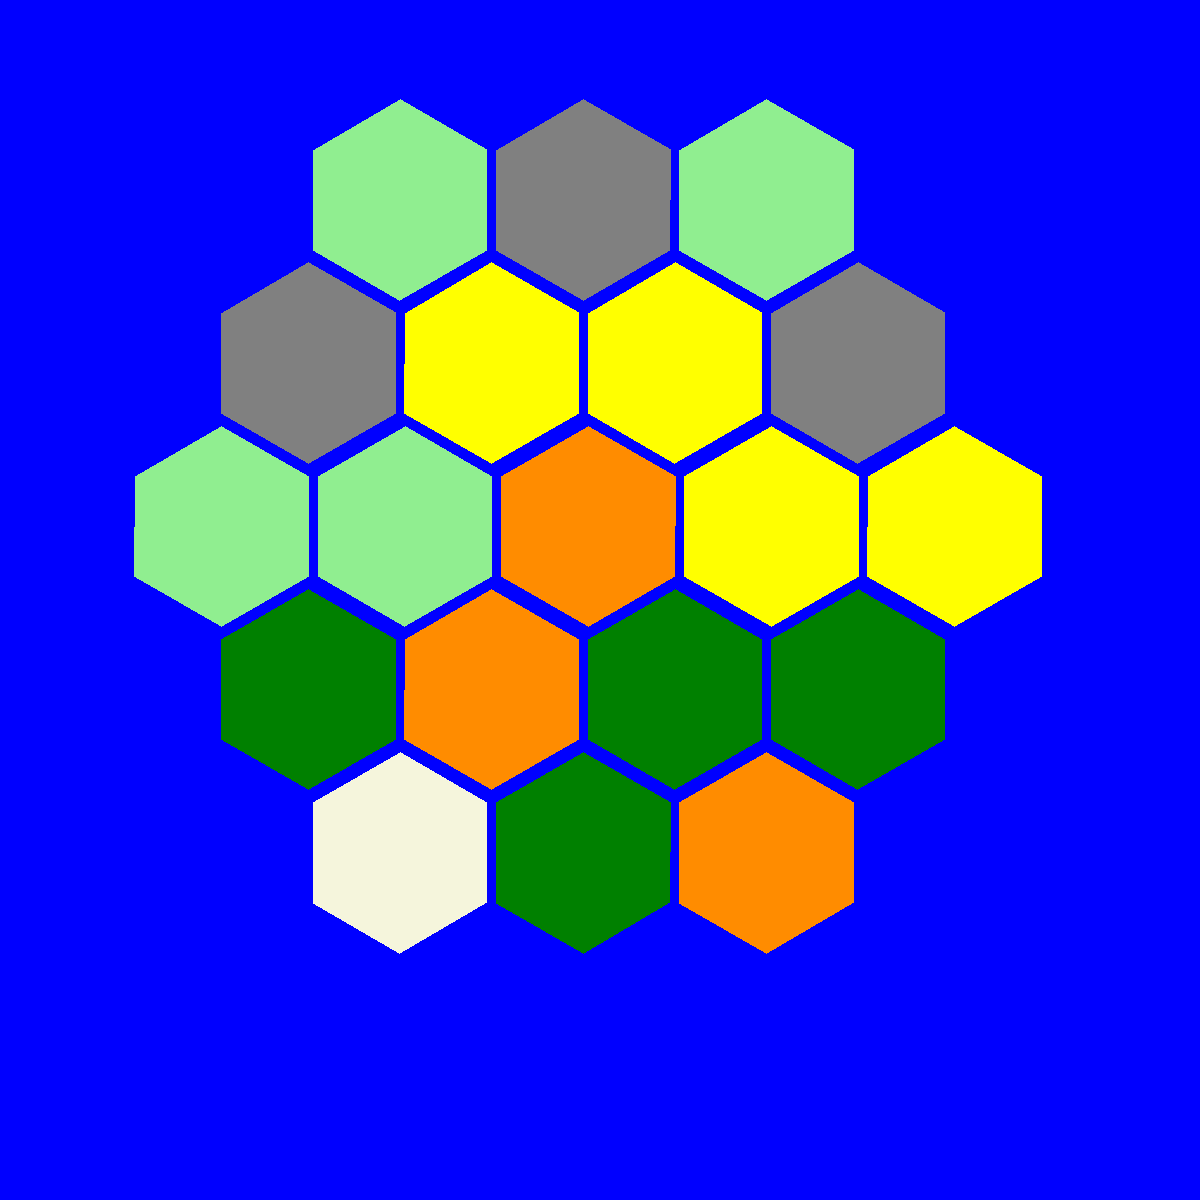
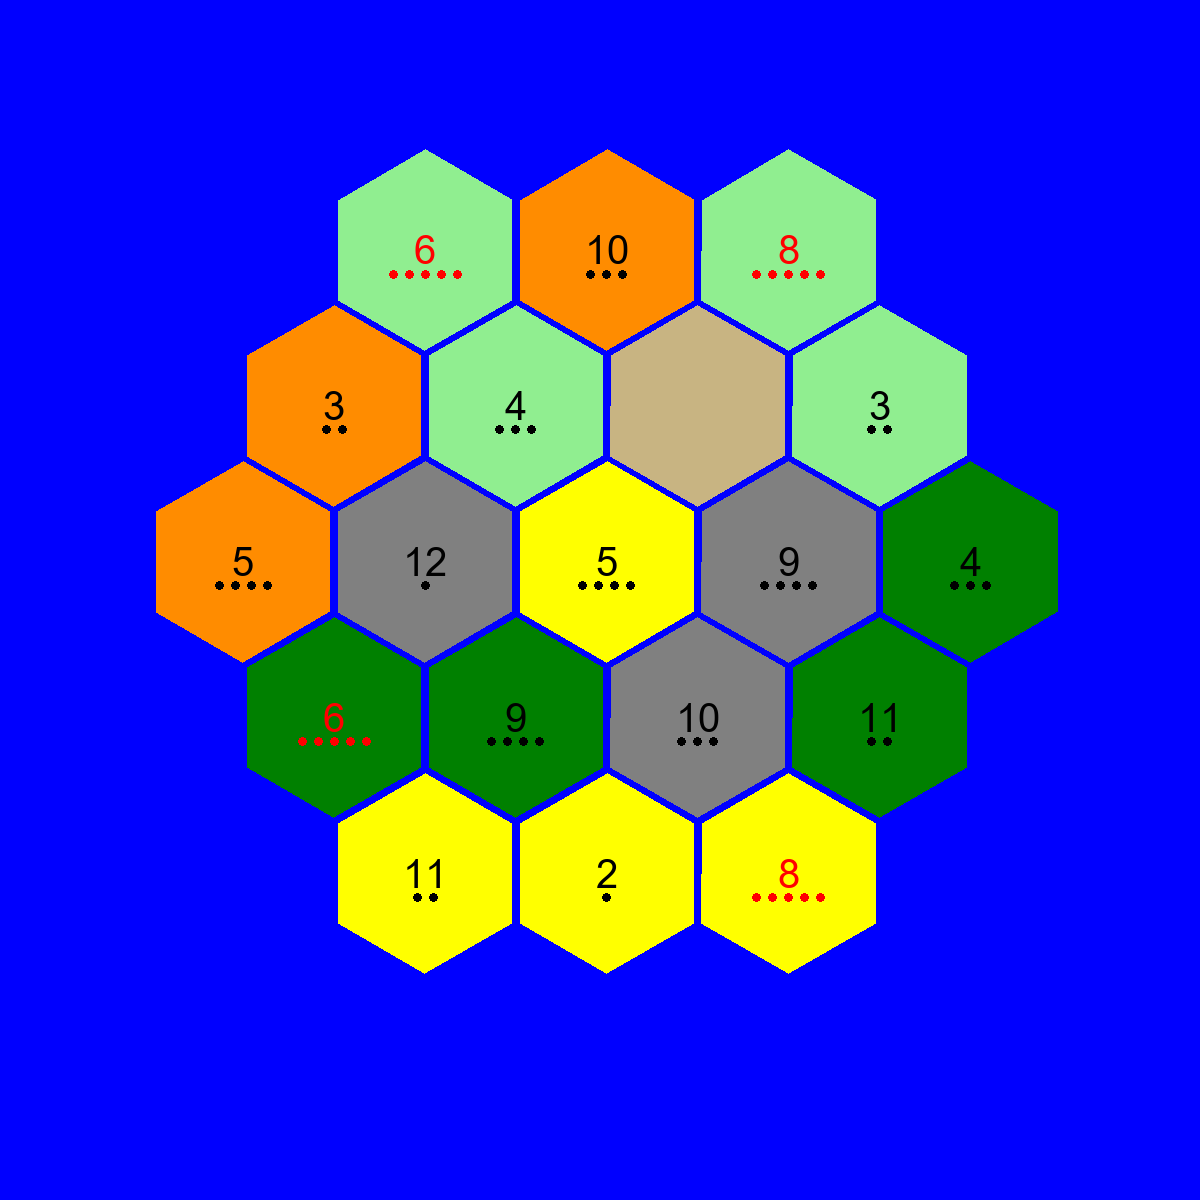
Improved board generation fairness

diff --git a/main.py b/main.py
@@ -4,7 +4,8 @@ from array import *
 from operator import itemgetter
 import matplotlib.pyplot as plt
 import math
-from PIL import Image, ImageDraw
+import random
+from PIL import Image, ImageDraw, ImageFont
 
 board_path = 'TestBoard.png'
 tree_path = 'TreeNew.png'
@@ -25,7 +26,76 @@ num11_path = '11.png'
 num12_path = '12.png'
 
 tiles = []
+rarity_odds = [0, 0, 1, 2, 3, 4, 5, 0, 5, 4, 3, 2, 1, 0, 0]
 
+#mapping of adjacent hexagons
+adjacencies =[
+    [1,3,4],
+    [0,2,4,5],
+    [1,5,6],
+    [0,4,7,8],
+    [0,1,3,5,8,9],
+    [1,2,4,6,9,10],
+    [2,5,10,11],
+    [3,8,12],
+    [3,4,7,9,12,13],
+    [4,5,8,10,13,14],
+    [5,6,9,11,14,15],
+    [6,10,15],
+    [7,8,13,16],
+    [8,9,12,14,16,17],
+    [9,10,13,15,17,18],
+    [10,11,14,18],
+    [12,13,17],
+    [13,14,16,18],
+    [14,15,17]
+]
+
+#----------------------------------------------------------------------------------------------------------------------------------------------------------
+# BOARD GENERATOR
+#----------------------------------------------------------------------------------------------------------------------------------------------------------
+def generate_board():
+    board = []
+    resources = [['tree', 4], ['brick', 3], ['sheep', 4], ['wheat', 4], ['ore', 3], ['desert', 1]]
+    rarities = [2, 3, 3, 4, 4, 5, 5, 6, 6, 8, 8, 9, 9, 10, 10, 11, 11, 12]
+
+    for i in range(19):
+        random_resource = random.choice(resources)
+
+        while random_resource[1] == 0:
+            random_resource = random.choice(resources)
+
+        if random_resource[0] == 'desert':
+            random_rarity = 0
+        else:            
+            random_rarity = random.choice(rarities)
+
+
+        board.append([random_resource[0], random_rarity])
+        
+        random_resource[1] -= 1
+        if random_resource[0] != 'desert':
+            rarities.remove(random_rarity)
+
+    return board
+
+#----------------------------------------------------------------------------------------------------------------------------------------------------------
+# FAIR BOARD GENERATOR
+#----------------------------------------------------------------------------------------------------------------------------------------------------------
+
+def check_fairness(board):
+    for i in range(19):
+        for j in adjacencies[i]:
+            if(board[i][1] == 6 and board[j][1] == 6 or board[i][1] == 8 and board[j][1] == 6 or board[i][1] == 6 and board[j][1] == 8 or board[i][1] == 8 and board[j][1] == 8):
+                return False
+    return True
+
+def generate_fair_board():
+    board = generate_board()
+    while(not check_fairness(board)):
+        board = generate_board()
+    return board
+    
 #----------------------------------------------------------------------------------------------------------------------------------------------------------
 # BOARD VIEWER
 #----------------------------------------------------------------------------------------------------------------------------------------------------------
@@ -37,7 +107,6 @@ def BoardViewer():
     rarities = []
     placement_spots = []
     rarity_points = [0] * 5
-    rarity_odds = [0, 0, 1, 2, 3, 4, 5, 0, 5, 4, 3, 2, 1, 0, 0]
     rarity_percentage = [0] * 5
 
     xDiff = 40
@@ -111,9 +180,9 @@ def BoardViewer():
     findTiles(num12_path, 12)
 
 
-    cv2.imshow('Board', board_img)
-    cv2.waitKey()
-    cv2.destroyAllWindows()
+    #cv2.imshow('Board', board_img)
+    #cv2.waitKey()
+    #cv2.destroyAllWindows()
 
     tiles.sort(key=itemgetter(1))
 
@@ -275,7 +344,7 @@ def BoardViewer():
 
     plt.axis('equal')
 
-    plt.show()
+    #plt.show()
 
     '''
     Track the resources and values for each placement spot
@@ -322,7 +391,13 @@ def BoardViewer():
 
     print("test")
 
-def hexagonMaker(side_length,center_x, center_y, i):
+
+
+#----------------------------------------------------------------------------------------------------------------------------------------------------------
+# GUI
+#----------------------------------------------------------------------------------------------------------------------------------------------------------
+
+def hexagonMaker(new_tiles,side_length,center_x, center_y, i):
     rotation_angle_deg = 30  # Angle in degrees
 
     # Calculate rotated hexagon vertices
@@ -341,55 +416,120 @@ def hexagonMaker(side_length,center_x, center_y, i):
     ]
     ]
 
+ 
     fill_color = ""
-    if(tiles[i][2]=='tree'):
+    if(new_tiles[i][0]=='tree'):
         fill_color = 'green'
-    elif(tiles[i][2]=='brick'):
+    elif(new_tiles[i][0]=='brick'):
         fill_color = 'darkorange'
-    elif(tiles[i][2]=='sheep'):
+    elif(new_tiles[i][0]=='sheep'):
         fill_color = 'lightgreen'
-    elif(tiles[i][2]=='wheat'):
+    elif(new_tiles[i][0]=='wheat'):
         fill_color = 'yellow'
-    elif(tiles[i][2]=='ore'):
+    elif(new_tiles[i][0]=='ore'):
         fill_color = 'gray'
     else:
-        fill_color = 'beige'
+        fill_color = (200, 180, 130)
 
-    return(hexagon_vertices, fill_color)
+    if(new_tiles[i][1] != 0):
+        return(hexagon_vertices, fill_color, str(new_tiles[i][1]))
+    else:
+        return(hexagon_vertices, fill_color, "")
     
-#----------------------------------------------------------------------------------------------------------------------------------------------------------
-# GUI
-#----------------------------------------------------------------------------------------------------------------------------------------------------------
-def BoardGUI(tiles):
-    print(tiles)
+    
+def dotDrawer(x, y, number, draw):
+    dot_size = 8
+    
+    text_color = 'red' if number in ('6', '8') else 'black'
+
+    if number != '' and rarity_odds[eval(number)] == 1:
+        draw.ellipse([(x - dot_size*2 + dot_size*1.5, y + 20), 
+                  (x + dot_size - dot_size*2 + dot_size*1.5, y + dot_size + 20)],
+                 fill = text_color)
+    elif number != '' and rarity_odds[eval(number)] == 2:
+        for i in range(0, 2):
+            draw.ellipse([(x - dot_size*2*i + dot_size*.5, y + 20), 
+                  (x + dot_size - dot_size*2*i + dot_size*.5, y + dot_size + 20)],
+                 fill = text_color)
+    elif number != '' and rarity_odds[eval(number)] == 3:
+        for i in range(0, 3):
+            draw.ellipse([(x - dot_size*2*i + dot_size*1.5, y + 20), 
+                  (x + dot_size - dot_size*2*i + dot_size*1.5, y + dot_size + 20)],
+                 fill = text_color)
+    elif number != '' and rarity_odds[eval(number)] == 4:
+        for i in range(0, 4):
+            draw.ellipse([(x - dot_size*2*i + dot_size*2.5, y + 20), 
+                  (x + dot_size - dot_size*2*i + dot_size*2.5, y + dot_size + 20)],
+                 fill = text_color)
+    elif number != '' and rarity_odds[eval(number)] == 5:
+        for i in range(0, 5):
+            draw.ellipse([(x - dot_size*2*i + dot_size*3.5, y + 20), 
+                  (x + dot_size - dot_size*2*i + dot_size*3.5, y + dot_size + 20)],
+                 fill = text_color)
+    
+
+def BoardGUI(new_tiles):
+    print(new_tiles)
     side_length = 100
     img = Image.new("RGB", (1200, 1200), "blue")
     draw = ImageDraw.Draw(img)
+    font = ImageFont.truetype("arial.ttf", 40)
     halfHexxy = side_length*math.sin(math.radians(60)) #half hex width
 
     for i in range (0,3):
-        verts,color = hexagonMaker(side_length,400+(10+2*halfHexxy)*i,200, i)
+        verts,color,number = hexagonMaker(new_tiles, side_length, 
+                                          425 + (2*halfHexxy + (halfHexxy/10)) * i, 
+                                          250, i)
         draw.polygon(verts, fill=color)
+        text_color = 'red' if number in ('6', '8') else 'black'
+        draw.text((425 + (2*halfHexxy + (halfHexxy/10)) * i, 250), 
+                  number, anchor = 'mm', font = font, fill = text_color)
+        dotDrawer(425 + (2*halfHexxy + (halfHexxy/10)) * i, 250, number, draw)
     for i in range (0,4):
-        verts,color = hexagonMaker(side_length,(400-halfHexxy-5)+((10+2*halfHexxy)*i),200+2*(halfHexxy-5), (i+3))
+        verts,color,number = hexagonMaker(new_tiles, side_length, 
+                                          (425-halfHexxy-(halfHexxy/20)) + ((2*halfHexxy + (halfHexxy/10))*i), 
+                                          250+2*(halfHexxy-(halfHexxy/10)), (i+3))
         draw.polygon(verts, fill=color)
+        text_color = 'red' if number in ('6', '8') else 'black'
+        draw.text(((425-halfHexxy-(halfHexxy/20)) + ((2*halfHexxy + (halfHexxy/10))*i), 250+2*(halfHexxy-(halfHexxy/10))), 
+                  number, anchor = 'mm', font = font, fill=text_color)
+        dotDrawer((425-halfHexxy-(halfHexxy/20)) + ((2*halfHexxy + (halfHexxy/10))*i), 250+2*(halfHexxy-(halfHexxy/10)), number, draw)
     for i in range (0,5):
-        verts,color = hexagonMaker(side_length,(400-2*halfHexxy-5)+(10+2*halfHexxy)*i,200+4*(halfHexxy-5), (i+7))
+        verts,color,number = hexagonMaker(new_tiles, side_length, 
+                                          (425-2*halfHexxy-(halfHexxy/10)) + (2*halfHexxy + (halfHexxy/10))*i, 
+                                          250+4*(halfHexxy-(halfHexxy/10)), (i+7))
         draw.polygon(verts, fill=color)
+        text_color = 'red' if number in ('6', '8') else 'black'
+        draw.text(((425-2*halfHexxy-(halfHexxy/10)) + (2*halfHexxy + (halfHexxy/10))*i, 250+4*(halfHexxy-(halfHexxy/10))), 
+                  number, anchor = 'mm', font = font, fill=text_color)
+        dotDrawer((425-2*halfHexxy-(halfHexxy/10)) + (2*halfHexxy + (halfHexxy/10))*i, 250+4*(halfHexxy-(halfHexxy/10)), number, draw)
     for i in range (0,4):
-        verts,color = hexagonMaker(side_length,(400-halfHexxy-5)+(10+2*halfHexxy)*i,200+6*(halfHexxy-5), (i+12))
+        verts,color,number = hexagonMaker(new_tiles, side_length, 
+                                          (425-halfHexxy-(halfHexxy/20))+(2*halfHexxy + (halfHexxy/10))*i, 
+                                          250+6*(halfHexxy-(halfHexxy/10)), (i+12))
         draw.polygon(verts, fill=color)
+        text_color = 'red' if number in ('6', '8') else 'black'
+        draw.text(((425-halfHexxy-(halfHexxy/20))+(2*halfHexxy + (halfHexxy/10))*i, 250+6*(halfHexxy-(halfHexxy/10))), 
+                  number, anchor = 'mm', font = font, fill=text_color)
+        dotDrawer((425-halfHexxy-(halfHexxy/20))+(2*halfHexxy + (halfHexxy/10))*i, 250+6*(halfHexxy-(halfHexxy/10)), number, draw)
     for i in range (0,3):
-        verts,color = hexagonMaker(side_length,400+(10+2*halfHexxy)*i,200+8*(halfHexxy-5), (i+16))
+        verts,color,number = hexagonMaker(new_tiles, side_length, 
+                                          425+(2*halfHexxy + (halfHexxy/10))*i, 
+                                          250+8*(halfHexxy-(halfHexxy/10)), (i+16))
         draw.polygon(verts, fill=color)
+        text_color = 'red' if number in ('6', '8') else 'black'
+        draw.text((425+(2*halfHexxy + (halfHexxy/10))*i, 250+8*(halfHexxy-(halfHexxy/10))), 
+                  number, anchor = 'mm', font = font, fill=text_color)
+        dotDrawer(425+(2*halfHexxy + (halfHexxy/10))*i, 250+8*(halfHexxy-(halfHexxy/10)), number, draw)
     img.save("generated_image.png")
 
 
 #----------------------------------------------------------------------------------------------------------------------------------------------------------
-# main
+# MAIN
 #----------------------------------------------------------------------------------------------------------------------------------------------------------
 def main():
     BoardViewer()
-    BoardGUI(tiles)
+    new_tiles = generate_fair_board()
+    BoardGUI(new_tiles)
 
 main()
